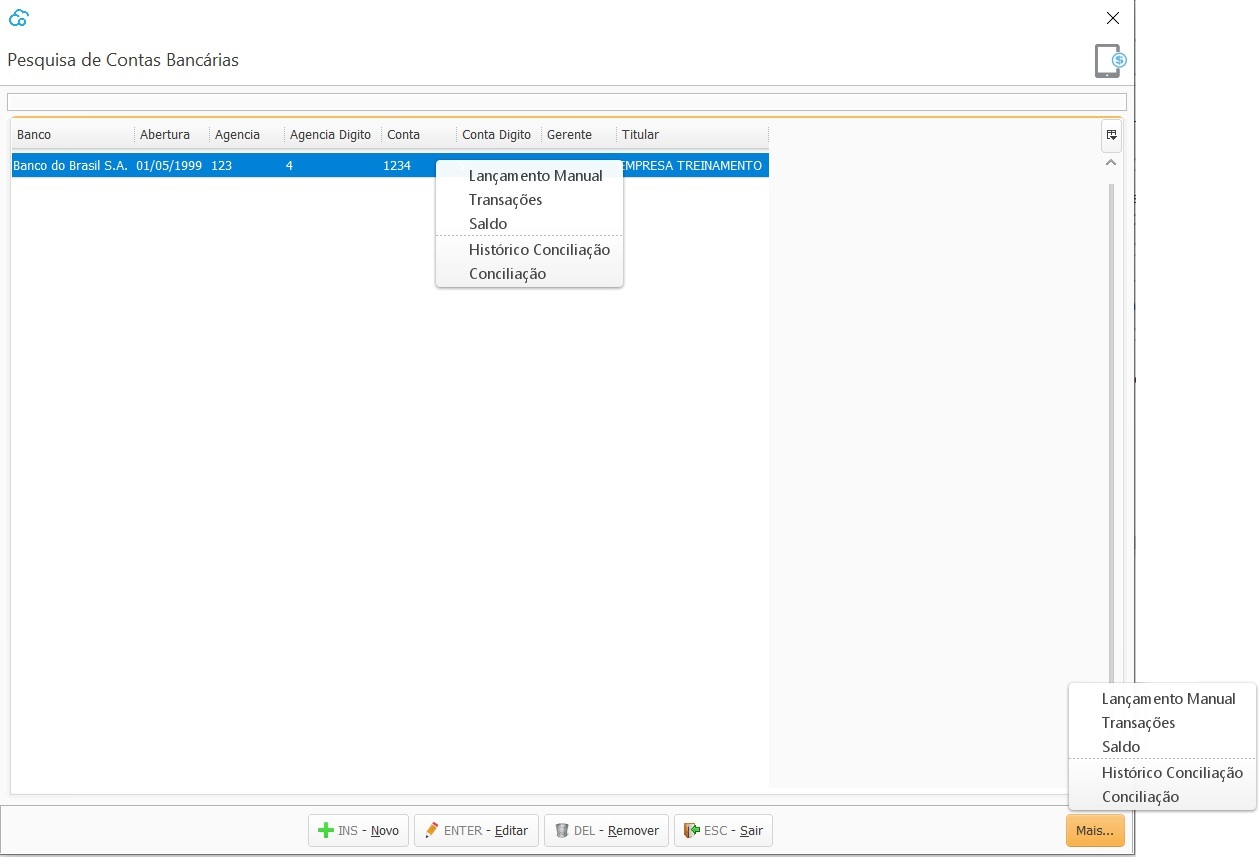
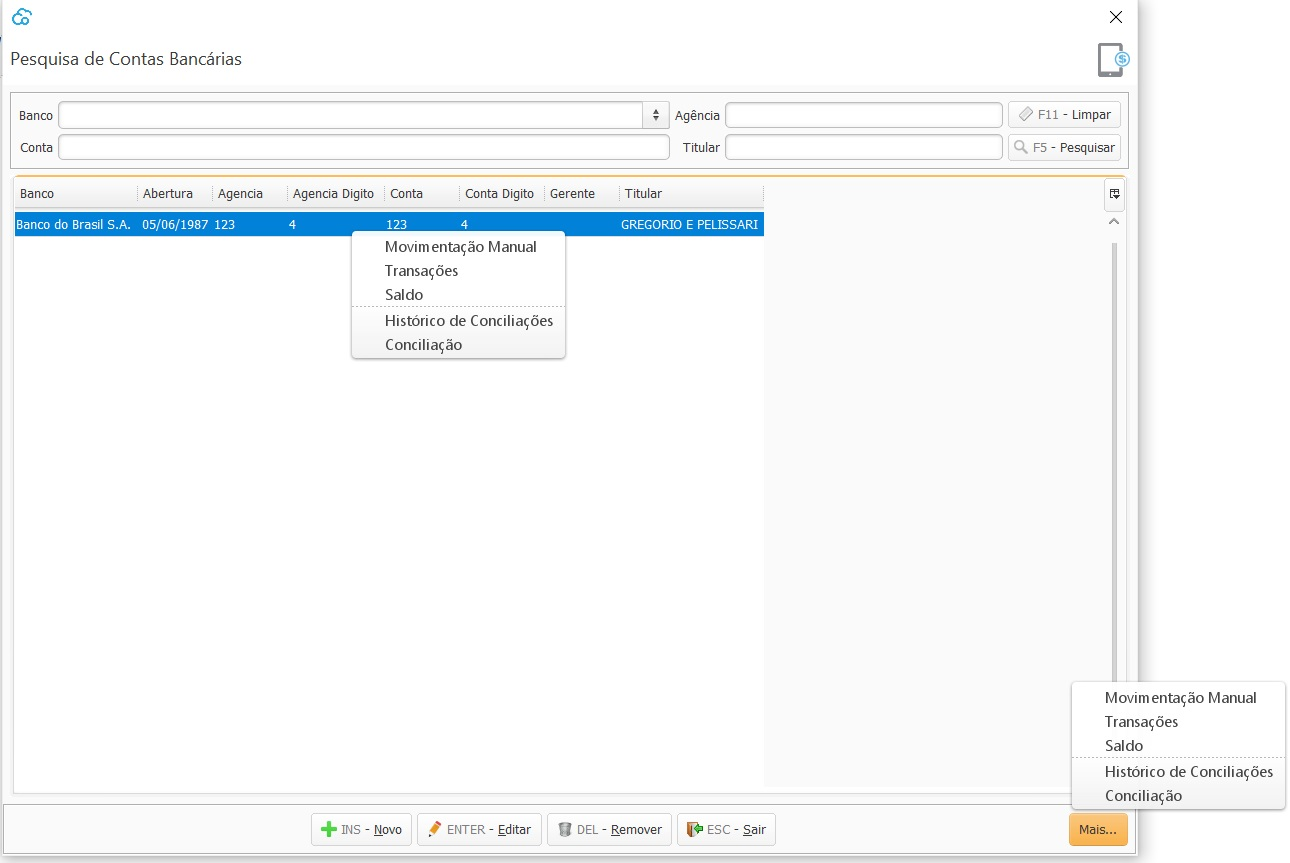
Financeiro_conta_bancaria

diff --git a/docs/financeiro_conta_bancaria.md b/docs/financeiro_conta_bancaria.md
@@ -1,23 +1,37 @@
-### Contas Bancárias
+### Conta Bancária
+
+{: #contabancaria}
 
 Nesta tela devem ser cadastradas todas as Contas bancárias que a empresa tem e movimenta.
 
-Clicando com botão direito em cima da conta,  ou no botão `Mais` no lado inferior direito da tela, as opões de trabalho [Lançamento Manual](financeiro_conta_bancaria.md#lancamento_manual), [Transações](financeiro_conta_bancaria.md#transacoes), [Saldo](financeiro_conta_bancaria.md#saldo), [Histórico Conciliação](financeiro_conta_bancaria.md#historico_conciliacao) e [Conciliação](financeiro_conta_bancaria.md#conciliacao) ficarão disponíveis
+Clicando com botão inverso do mouse em cima da conta,  ou no botão `Mais` no lado inferior direito da tela, as seguintes opções ficam disponíveis:
 
 ![](images/financeiro_contas_bancarias.jpg)
 
 
 
-#### Lançamento Manual
-{: #lancamento_manual}
+#### Movimentação Manual
+{: #movimentacaomanual}
 
-Nesta tela devem ser inseridas todas as movimentações de entrada e saída das contas bancárias que forem além das já feitas nos outros processos do sistema. 
+Nesta podem ser inseridas todas as movimentações de entrada e saída das contas bancárias que forem além das já feitas nos outros processos do sistema, como por exemplo uma saída devido há uma tarifa bancária, ou uma entrada referente há um adiantamento de Cliente.
 
-Como por exemplo uma saída devido há uma tarifa bancária, ou uma entrada referente há um adiantamento de Cliente.
+Emissão é a data que a transação aparecerá no banco e também a data de contabilização.
 
-Os motivos dever ser previamente cadastrados no Cadastro de [Motivo de Movimentação Manual de Banco](financeiro_motivo_movimentacao_manual.md)
+Os motivos devem ser previamente cadastrados no Cadastro de [Motivo de Movimentação Manual de Banco](financeiro_motivo_movimentacao_manual_banco.md#cadastro).
 
-![](images/financeiro_contas_bancarias_lancamento_manual.jpg)
+![](images/financeiro_contas_bancarias_movimentacao_manual.jpg)
+
+Alguns campos só aparecem de acordo com o motivo informado, por exemplo o campo Cliente ou Fornecedor só aparece se o motivo for parametrizado para [Gerar crédito para o cliente\fornecedor](financeiro_motivo_movimentacao_manual_banco.md#gerarcredito).
+
+![](images/financeiro_contas_bancarias_movimentacao_manual_cliente.jpg)
+
+
+
+Os campos de Créditos em aberto só aparecem se o motivo for parametrizado para [Liquidar crédito para o cliente\fornecedor](financeiro_motivo_movimentacao_manual_banco.md#liquidarcredito).
+
+![](images/financeiro_contas_bancarias_movimentacao_manual_liquidarcredito.jpg)
+
+
 
 #### Transações
 {: #transacoes}
@@ -26,7 +40,7 @@ Esta é uma tela de consulta, onde estão disponíveis todas as transações ban
 
 O Status Aberto representa as transações que ainda não foram Conciliadas. 
 
-O Status Liquidado representa as transações que já foram Conciliadas, o histórico da Conciliação podem ser visualizado no menu [Histórico Conciliação](financeiro_conta_bancaria.md#historico_conciliacao)
+O Status Liquidado representa as transações que já foram Conciliadas, o histórico da Conciliação podem ser visualizado no menu [Histórico Conciliação](financeiro_conta_bancaria.md#historicoconciliacao)
 
 O Status Cancelado representa as transações que foram canceladas através dos processos de [Cancelamento de Venda](venda_cancelamento.md) ou [Reversão de Recebimento](financeiro_contas_receber.md#reversao) 
 
@@ -37,8 +51,6 @@ O Status Cancelado representa as transações que foram canceladas através dos 
 #### Saldo
 {: #saldo}
 
-
-
 Esta é uma tela de consulta, onde está disponível o Saldo bancário registrado no sistema
 
 ![](images/financeiro_contas_bancarias_saldo.jpg)
@@ -46,7 +58,7 @@ Esta é uma tela de consulta, onde está disponível o Saldo bancário registrad
 
 
 #### Histórico Conciliação
-{: #historico_conciliacao}
+{: #historicoconciliacao}
 
 Esta é uma tela de consulta, onde está disponível o histórico das Conciliações bancárias realizadas.
 

diff --git a/docs/financeiro_motivo_movimentacao_manual_banco.md b/docs/financeiro_motivo_movimentacao_manual_banco.md
@@ -1,5 +1,7 @@
 ### Motivo Movimentação Manual de Banco
 
+{: #cadastro}
+
 Nesta tela devem ser cadastrados todos os Motivos das movimentações de entrada e saída das contas bancárias que forem além das já feitas nos outros processos do sistema.
 
 Como por exemplo uma saída devido há uma tarifa bancária, ou uma entrada referente há um adiantamento de Cliente. 
@@ -10,11 +12,15 @@ Cada motivo deve ser amarrado há uma conta contábil e essa conta é usada no l
 
 #### Gerar crédito para Cliente/Fornecedor
 
+{: #gerarcredito}
+
 Essa opção deve ser marcada quando a movimentação irá gerar um Crédito para o Cliente ou Fornecedor.
 
 Como por exemplo, quando um cliente faz um pagamento antecipado ou quando é feito um pagamento antecipado para um fornecedor. 
 
 #### Liquidar crédito de Cliente/Fornecedor
+
+{: #liquidarcredito}
 
 Essa opção deve ser marcada quando a movimentação for liquidar um crédito já existente do Cliente ou Fornecedor.
 

diff --git a/docs/financeiro.md b/docs/financeiro.md
@@ -9,14 +9,9 @@ Para o Contas à Pagar, estão disponíveis as opções:
 {: #financeirocontaspagar}
 
 - [Cartão Corporativo](financeiro_cartao_corporativo.md#cartaocorporativo) 
-
 - [Motivo Movimentação Manual de Cartão Corporativo](financeiro_motivo_movimentacao_manual_cartao.md#cadastro)
-
 - [Forma de Pagamento](financeiro_forma_pagamento.md#cadastro)
-
 - [Contas à Pagar](financeiro_contas_pagar.md#contaspagar)
-
-  
 
 
 
